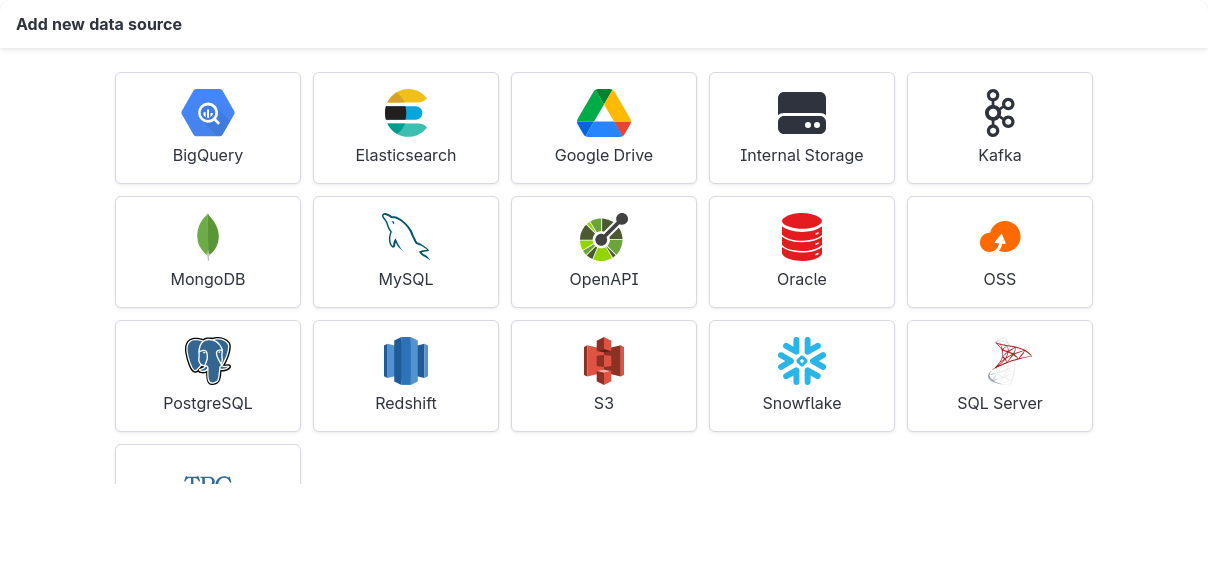
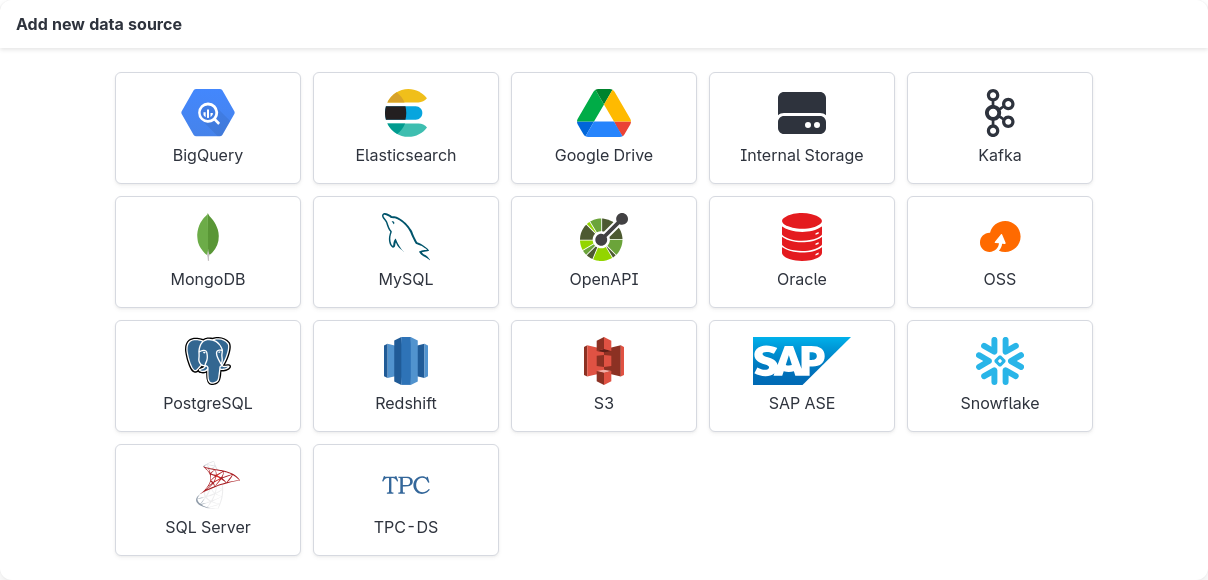
updated EdgeSet manual (en-US)

diff --git a/public/edgeset/manual/current/en-US/data-sources.html b/public/edgeset/manual/current/en-US/data-sources.html
@@ -346,16 +346,21 @@ ul.task-list li input[type="checkbox"] {
 <td style="text-align: left;">requires an API key</td>
 </tr>
 <tr class="odd">
+<td style="text-align: left;">SAP ASE</td>
+<td style="text-align: left;">15.7 or higher</td>
+<td style="text-align: left;"></td>
+</tr>
+<tr class="even">
 <td style="text-align: left;">Snowflake</td>
 <td style="text-align: left;">N/A</td>
 <td style="text-align: left;">requires a Snowflake service account</td>
 </tr>
-<tr class="even">
+<tr class="odd">
 <td style="text-align: left;">SQL Server</td>
 <td style="text-align: left;">2012 or higher or Azure SQL</td>
 <td style="text-align: left;"></td>
 </tr>
-<tr class="odd">
+<tr class="even">
 <td style="text-align: left;">TPC-DS</td>
 <td style="text-align: left;">N/A</td>
 <td style="text-align: left;">for testing queries</td>
